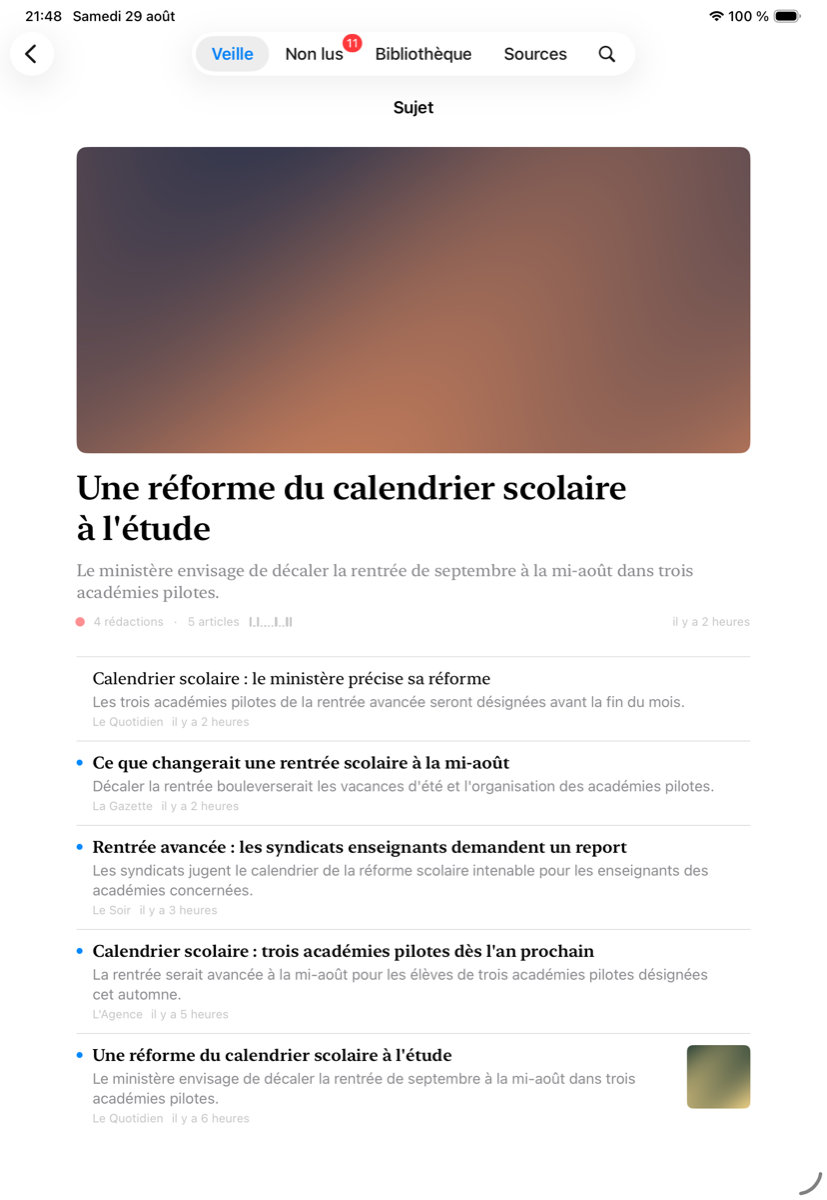
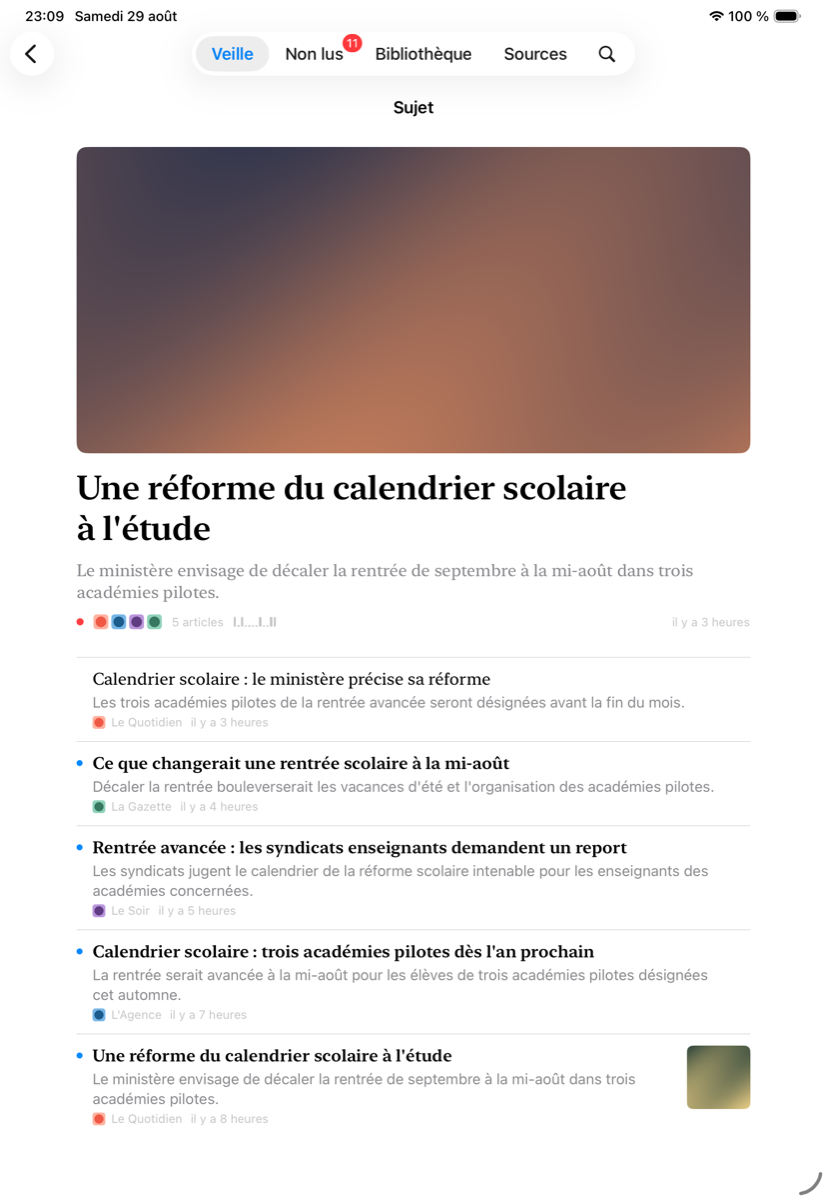
Show which rooms are covering a story, not how many
`4 rédactions` is a number the reader has to turn back into rooms. Four
marks are the rooms, and they say which ones, which is the question
behind the number : a story every paper is running and a story only the
trade press is running are not the same story, and the count says they
are.

Four marks are shown, in the order the rooms picked the story up, which
is the order a reader would tell it in ; a fifth room becomes a `+1`. The
same marks head the story's own page, so the page a reader tapped into
opens on what they tapped.

The count survives for anyone listening to the page rather than looking
at it : the row of marks carries it as its accessibility label, and the
string that said it is still the one that says it.

`feedTitles` carried three names and was drawn nowhere ; it is now
`feedMarks`, and carries what is drawn.

319 tests passing on macOS and on the iOS simulator.

diff --git a/Flong/Digest/DigestStore.swift b/Flong/Digest/DigestStore.swift
@@ -39,6 +39,18 @@ nonisolated enum DigestTopic: Hashable, Sendable, Identifiable {
     }
 }
 
+/// One of the rooms covering a story, as the page shows it.
+///
+/// A mark rather than a name : four names are a line of text nobody reads,
+/// four marks are a glance.
+nonisolated struct FeedMark: Hashable, Sendable, Identifiable {
+    let title: String
+    let iconURL: URL?
+    let siteURL: URL?
+
+    var id: String { title }
+}
+
 /// A story, as the digest shows it.
 nonisolated struct DigestStory: Identifiable, Hashable, Sendable {
     let id: UUID
@@ -48,8 +60,8 @@ nonisolated struct DigestStory: Identifiable, Hashable, Sendable {
     let isGenerated: Bool
 
     let articleCount: Int
-    /// The rooms talking about it, a few of them named.
-    let feedTitles: [String]
+    /// The rooms talking about it, a few of them shown.
+    let feedMarks: [FeedMark]
     let feedCount: Int
 
     let firstAt: Date
@@ -83,6 +95,8 @@ nonisolated struct Digest: Hashable, Sendable {
 private struct StoryArticle {
     let storyID: UUID
     let feedTitle: String
+    let feedIconURL: URL?
+    let feedSiteURL: URL?
     let date: Date
     let imageURL: URL?
 }
@@ -102,8 +116,8 @@ nonisolated struct DigestStore: Sendable {
     /// the library and search. Three days is a story still worth a headline.
     static let window: TimeInterval = 3 * 24 * 60 * 60
 
-    /// How many rooms a card names before it counts the rest.
-    static let namedFeeds = 3
+    /// How many rooms a row shows the mark of before it counts the rest.
+    static let namedFeeds = 4
     /// How many buckets the sparkline has.
     static let sparklineBuckets = 12
 
@@ -127,7 +141,9 @@ nonisolated struct DigestStore: Sendable {
             let members = try Row.fetchAll(
                 db,
                 sql: """
-                    SELECT m.story_id AS story_id, f.title AS feed_title, e.image_url AS image_url,
+                    SELECT m.story_id AS story_id, f.title AS feed_title,
+                           f.icon_url AS icon_url, COALESCE(f.site_url, f.url) AS site_url,
+                           e.image_url AS image_url,
                            COALESCE(e.published_at, e.received_at) AS date
                     FROM story_member m
                     JOIN entry e ON e.id = m.entry_id
@@ -140,6 +156,8 @@ nonisolated struct DigestStore: Sendable {
                 StoryArticle(
                     storyID: row["story_id"],
                     feedTitle: row["feed_title"],
+                    feedIconURL: (row["icon_url"] as String?).flatMap(URL.init(string:)),
+                    feedSiteURL: (row["site_url"] as String?).flatMap(URL.init(string:)),
                     date: row["date"],
                     imageURL: (row["image_url"] as String?).flatMap(URL.init(string:))
                 )
@@ -198,9 +216,14 @@ nonisolated struct DigestStore: Sendable {
         // is a single newsroom having a busy afternoon.
         let isLive = recent.count >= liveArticles && Set(recent.map(\.feedTitle)).count >= liveFeeds
 
-        var titles: [String] = []
-        for member in members.sorted(by: { $0.date < $1.date }) where !titles.contains(member.feedTitle) {
-            titles.append(member.feedTitle)
+        // In the order the rooms picked the story up, which is the order a
+        // reader would tell it in.
+        var marks: [FeedMark] = []
+        for member in members.sorted(by: { $0.date < $1.date })
+        where !marks.contains(where: { $0.title == member.feedTitle }) {
+            marks.append(
+                FeedMark(title: member.feedTitle, iconURL: member.feedIconURL, siteURL: member.feedSiteURL)
+            )
         }
 
         return DigestStory(
@@ -209,8 +232,8 @@ nonisolated struct DigestStore: Sendable {
             summary: story.summary,
             isGenerated: story.isGenerated,
             articleCount: members.count,
-            feedTitles: Array(titles.prefix(namedFeeds)),
-            feedCount: titles.count,
+            feedMarks: Array(marks.prefix(namedFeeds)),
+            feedCount: marks.count,
             firstAt: dates.first ?? story.firstAt,
             lastAt: dates.last ?? story.lastAt,
             arrivals: sparkline(dates),

diff --git a/Flong/Features/Digest/DigestScreen.swift b/Flong/Features/Digest/DigestScreen.swift
@@ -285,6 +285,31 @@ struct StoryRow: View {
         .frame(maxWidth: .infinity, alignment: .leading)
     }
 
+    /// Who is saying it, by their marks rather than by a count of them.
+    ///
+    /// `4 rédactions` is a number a reader has to turn back into rooms. Four
+    /// marks are the rooms, and they say which ones, which is the question
+    /// behind the number : a story every paper is running and a story only the
+    /// trade press is running are not the same story.
+    ///
+    /// The count survives for anyone listening to the page rather than looking
+    /// at it, and for the rooms there was no room to show.
+    private var rooms: some View {
+        HStack(spacing: 3) {
+            ForEach(story.feedMarks) { mark in
+                FeedIconView(stated: mark.iconURL, site: mark.siteURL, side: 14)
+            }
+
+            if story.feedCount > story.feedMarks.count {
+                Text(verbatim: "+\(story.feedCount - story.feedMarks.count)")
+                    .lineLimit(1)
+                    .padding(.leading, 1)
+            }
+        }
+        .accessibilityElement()
+        .accessibilityLabel(Text("\(story.feedCount) rooms"))
+    }
+
     /// Why this is here : who is saying it, how many of them, and how fast.
     ///
     /// It is the explanation the 2026 trend towards visible reasoning asks for,
@@ -306,11 +331,9 @@ struct StoryRow: View {
 
     private func factsLine(sparkline: Bool = true, articles: Bool = true) -> some View {
         HStack(spacing: 10) {
-            Text("\(story.feedCount) rooms")
-                .lineLimit(1)
+            rooms
 
             if articles {
-                Text(verbatim: "·")
                 Text("\(story.articleCount) articles")
                     .lineLimit(1)
             }

diff --git a/Flong/Features/Digest/StoryScreen.swift b/Flong/Features/Digest/StoryScreen.swift
@@ -127,8 +127,21 @@ struct StoryScreen: View {
             if story.isLive {
                 LiveDot()
             }
-            Text("\(story.feedCount) rooms")
-            Text(verbatim: "·")
+
+            // The same marks the row carried, so the page a reader tapped
+            // into opens on what they tapped.
+            HStack(spacing: 3) {
+                ForEach(story.feedMarks) { mark in
+                    FeedIconView(stated: mark.iconURL, site: mark.siteURL, side: 15)
+                }
+                if story.feedCount > story.feedMarks.count {
+                    Text(verbatim: "+\(story.feedCount - story.feedMarks.count)")
+                        .padding(.leading, 1)
+                }
+            }
+            .accessibilityElement()
+            .accessibilityLabel(Text("\(story.feedCount) rooms"))
+
             Text("\(story.articleCount) articles")
 
             Sparkline(values: story.arrivals)

diff --git a/FlongTests/DigestTests.swift b/FlongTests/DigestTests.swift
@@ -514,8 +514,10 @@ struct DigestTests {
         let story = try #require(try await service.digest(now: now).live.first)
 
         #expect(story.feedCount == 4)
-        #expect(story.feedTitles.count == DigestStore.namedFeeds)
-        #expect(Set(story.feedTitles).isSubset(of: Set(Corpus.calendar.map(\.feed))))
+        #expect(story.feedMarks.count == DigestStore.namedFeeds)
+        #expect(Set(story.feedMarks.map(\.title)) == Set(Corpus.calendar.map(\.feed)))
+        // In the order the rooms picked it up.
+        #expect(story.feedMarks.first?.title == "Le Quotidien")
     }
 
     @Test("The articles of a story are there, newest first")

diff --git a/docs/technical/interface.md b/docs/technical/interface.md
@@ -53,6 +53,8 @@ A picture occupies nothing until it has something to show, and nothing again if 
 
 A list of feeds is a list of names, and names take reading. A mark is recognized before it is read, which is the whole of what a favicon is for. It stands beside a feed in the sources list, in place of the generic symbol, and beside the name of the room on every article row.
 
+On the digest it stands **in place of the count of rooms**. `4 rédactions` is a number the reader has to turn back into rooms ; four marks are the rooms, and they say which ones, which is the question behind the number : a story every paper is running and a story only the trade press is running are not the same story. Four are shown, and a fifth room becomes a `+1`. The count survives for anyone listening to the page rather than looking at it, since the row of marks carries it as its accessibility label.
+
 Three addresses are tried, in order : **what the feed states**, since the publisher chose it ; **`apple-touch-icon.png`**, a well-known path, square by convention and large enough to stay crisp where a sixteen pixel favicon would not ; and **`favicon.ico`**, the oldest well-known path and still the most widely served, since browsers ask for it whether a page mentions it or not. The well-known ones hang off the root of the site, never off the page the feed happens to point at.
 
 Nothing is asked for until a row is on screen, and what comes back is kept on disk, so a feed costs one request rather than one per appearance. A feed that answers none of the three wears the generic mark : a list of sources must keep its column of marks whether a publisher serves one or not, which is the one place a picture does not simply vanish when it fails.

diff --git a/docs/specification.md b/docs/specification.md
@@ -386,7 +386,7 @@ Not a list of articles : a list of **stories**, each one several articles from s
 
 The first story on the page runs its picture across the column, above a larger headline ; the others keep theirs to a square at the side. A page where every story is the same size is a list, and a list makes the reader do the ranking the digest exists to do.
 
-Each story carries its name, one line saying what happened, the number of rooms talking about it, the number of articles, the shape of their arrival and how long ago the last one came. Opening a story lists its articles ; opening an article reads it. Not a card : a rule, a headline, a line and the facts underneath.
+Each story carries its name, one line saying what happened, the marks of the rooms talking about it rather than a count of them, the number of articles, the shape of their arrival and how long ago the last one came. Opening a story lists its articles ; opening an article reads it. Not a card : a rule, a headline, a line and the facts underneath.
 
 The model names and summarizes ; without one, a story takes the title and standfirst of its most central article, and the page says which of the two it is. `docs/technical/digest.md` records how stories are grouped, and why it is not by the vectors of section 11.
 

diff --git a/CHANGELOG.md b/CHANGELOG.md
@@ -36,4 +36,4 @@ The format is based on [Keep a Changelog](https://keepachangelog.com/en/1.1.0/),
 - The digest is titled with the day's date rather than with its own name, and refreshes on a pull and on returning to the foreground, the Mac keeping the command in its toolbar.
 - An editorial page rather than a control panel : one readable column, serif for what was written and sans for what the application says about it, hairline rules in place of cards, and Liquid Glass left to the system's own navigation bar, where Apple's guidance keeps it.
 - Pictures on the page : the first story runs its picture across the column, the others keep it to a square at the side, decoded at the size they are drawn and cached on disk rather than fetched twice.
-- The mark of each source beside its name, in the sources list and on every article row, taken from what the feed states or from the well-known paths a site keeps one at, and falling back to a generic mark rather than a hole.
+- The mark of each source beside its name, in the sources list and on every article row, and in place of the count of rooms on a story, taken from what the feed states or from the well-known paths a site keeps one at, and falling back to a generic mark rather than a hole.

diff --git a/docs/technical/digest.md b/docs/technical/digest.md
@@ -89,6 +89,8 @@ Only the second kind counts towards the three failures that leave the model alon
 
 ## Pictures
 
+A story shows the marks of the rooms covering it, in the order those rooms picked it up, which is the order a reader would tell it in. Four of them, and a count of the rest.
+
 A story shows the picture of its most recent illustrated article, since a story is shown for where it has got to rather than for where it started. The first story on the page runs it across the column ; the others keep it to a square at the side.
 
 Where the picture itself comes from is in `docs/technical/ingestion.md`, and how it is fetched and drawn in `docs/technical/interface.md`.
